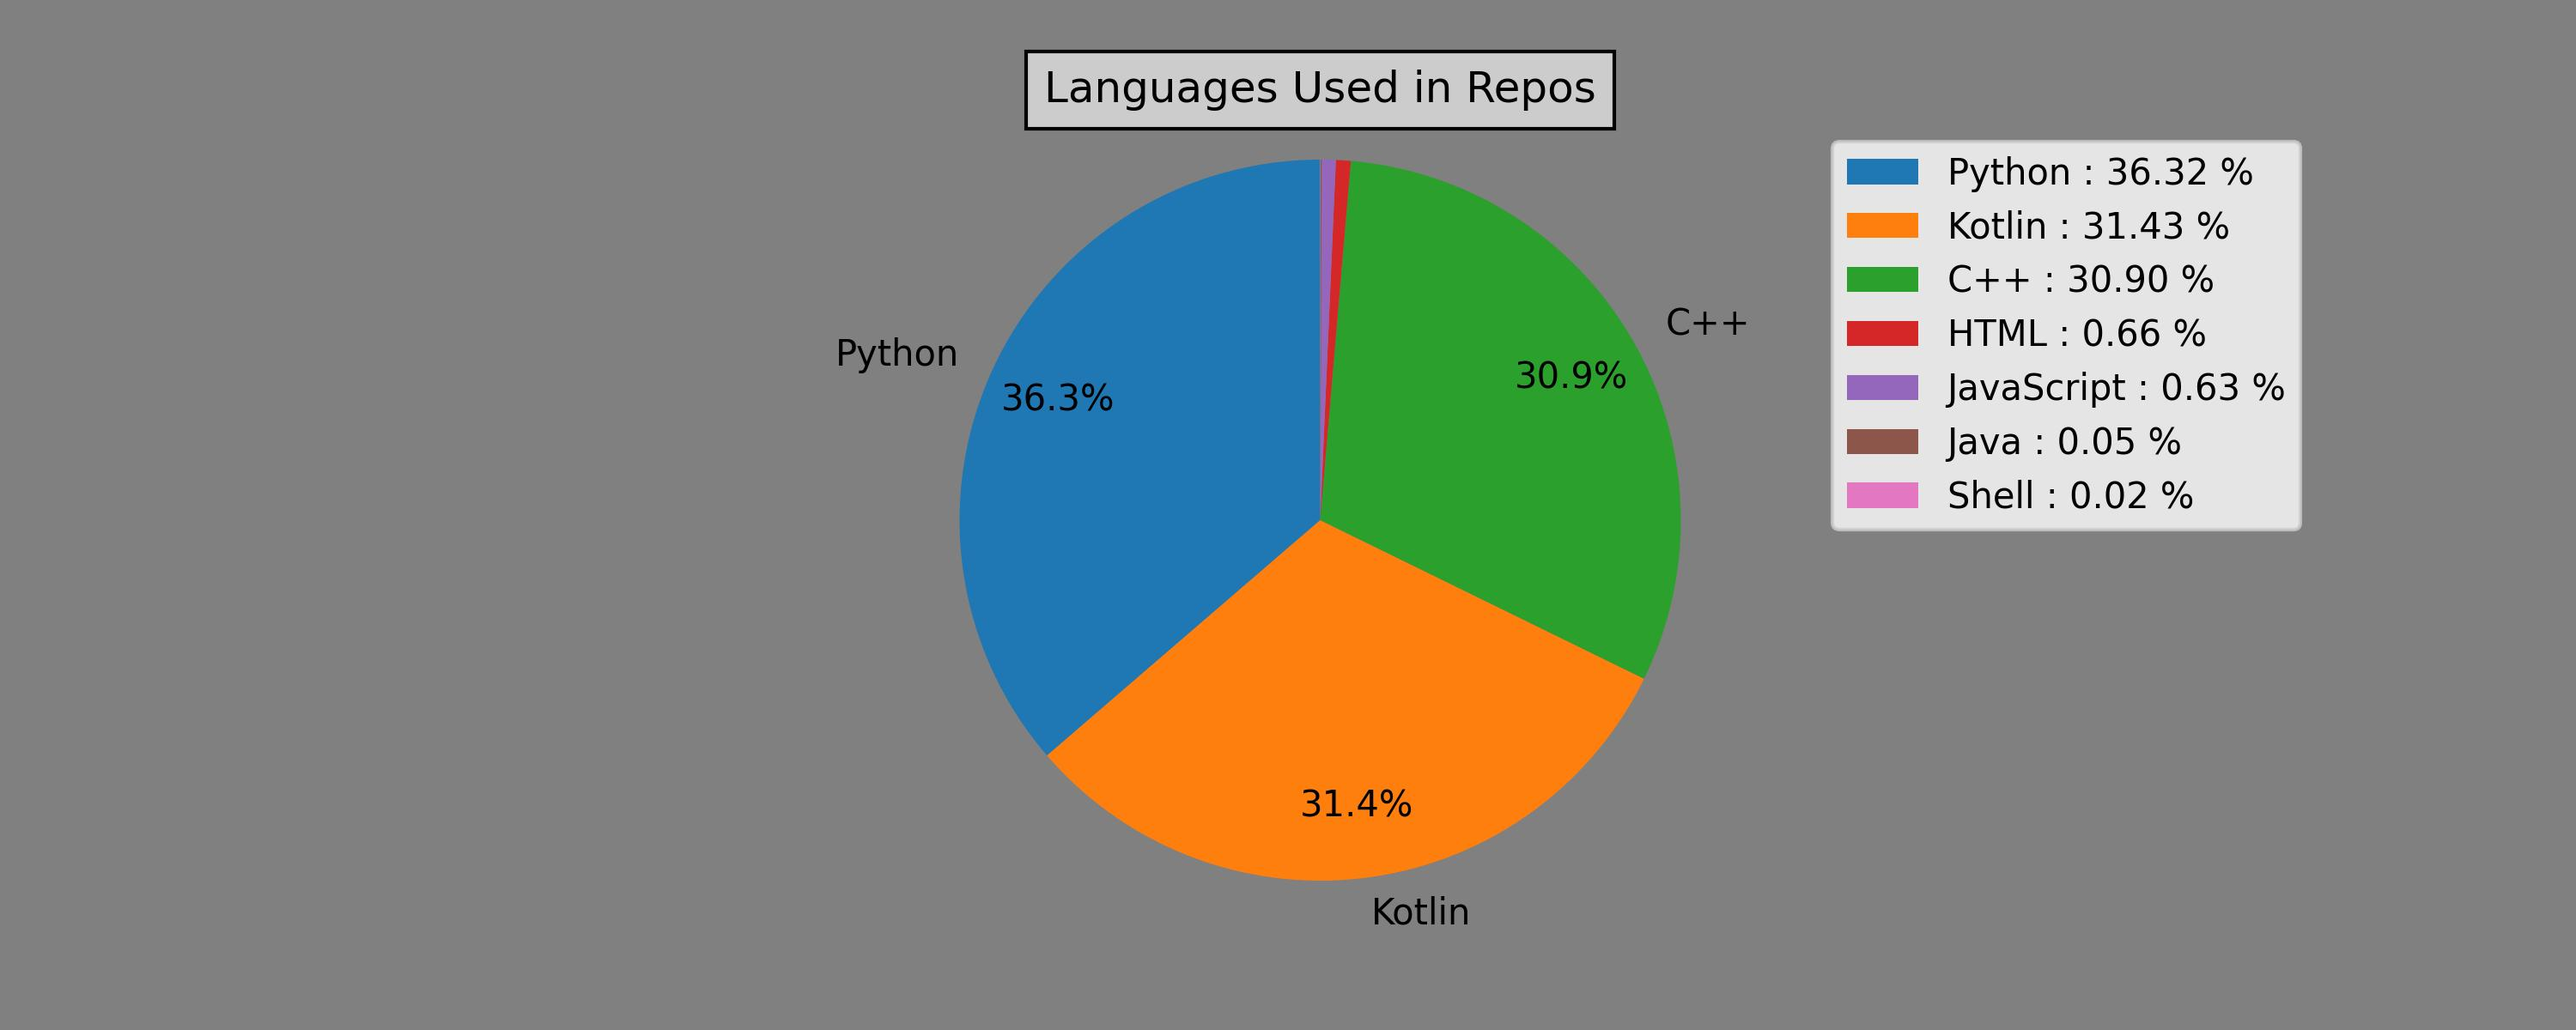
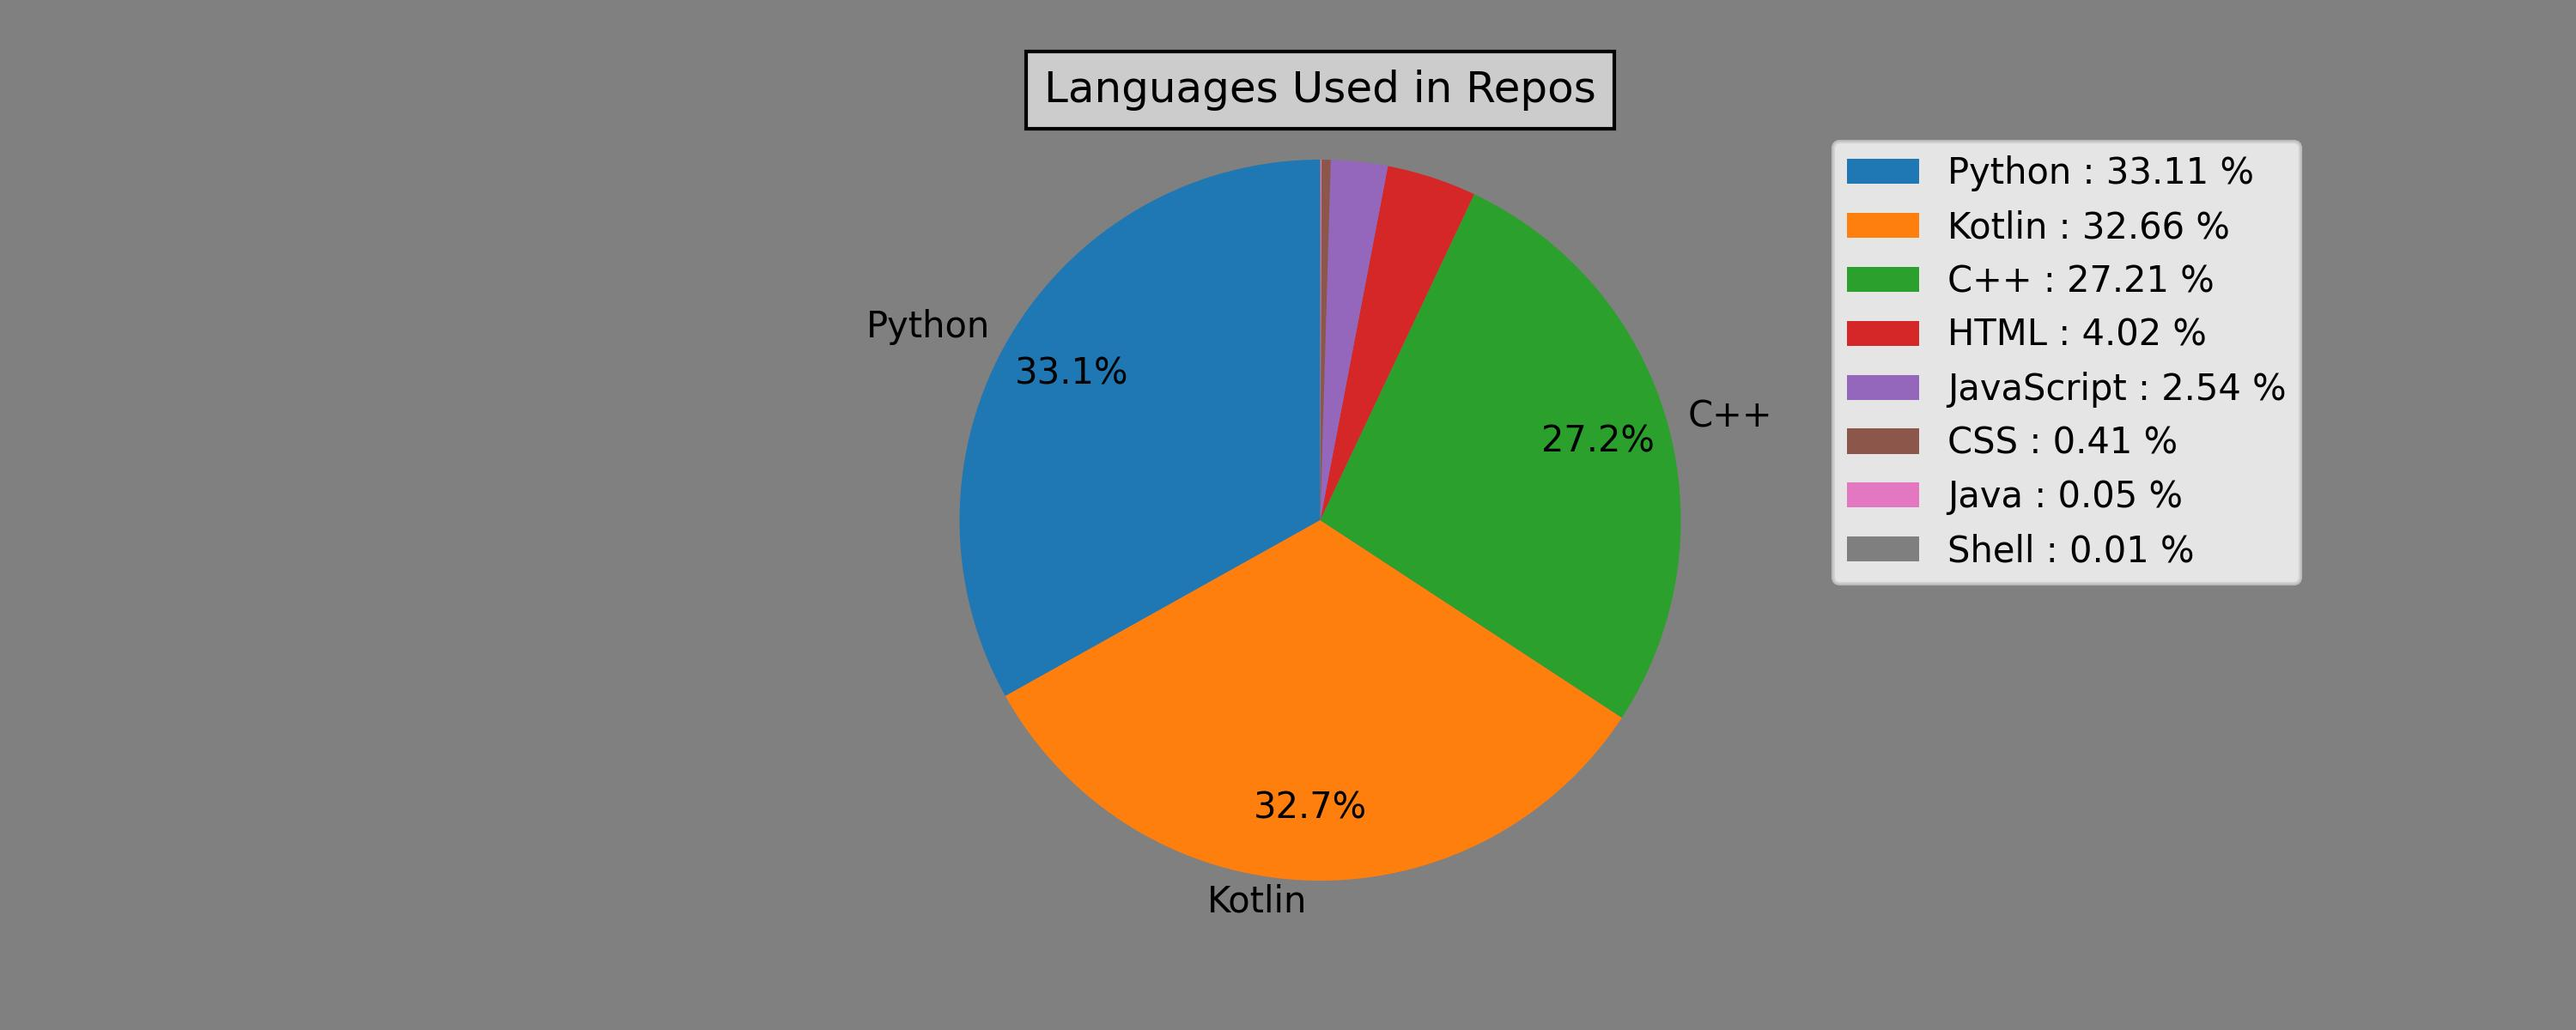
change in threshold to 10

diff --git a/get_language_stats.py b/get_language_stats.py
@@ -36,10 +36,10 @@ explode = [0] * len(labels)
 
 fig, ax = plt.subplots(figsize=(10,4))
 fig.set_facecolor(("grey"))
-widgets, texts, autotexts = ax.pie(sizes, labels=labels, explode=explode, autopct='%1.1f%%', startangle=90, labeldistance=1.1, pctdistance=0.8)
+widgets, texts, autotexts = ax.pie(sizes, labels=labels, explode=explode, autopct='%1.1f%%', startangle=90, labeldistance=1.06, pctdistance=0.8)
 plt.title("Languages Used in Repos",bbox={'facecolor':'0.8', 'pad':5})
 
-threshold = 3
+threshold = 10
 
 for label, pct_label in zip(texts, autotexts):
     pct_value = pct_label.get_text().rstrip('%')
